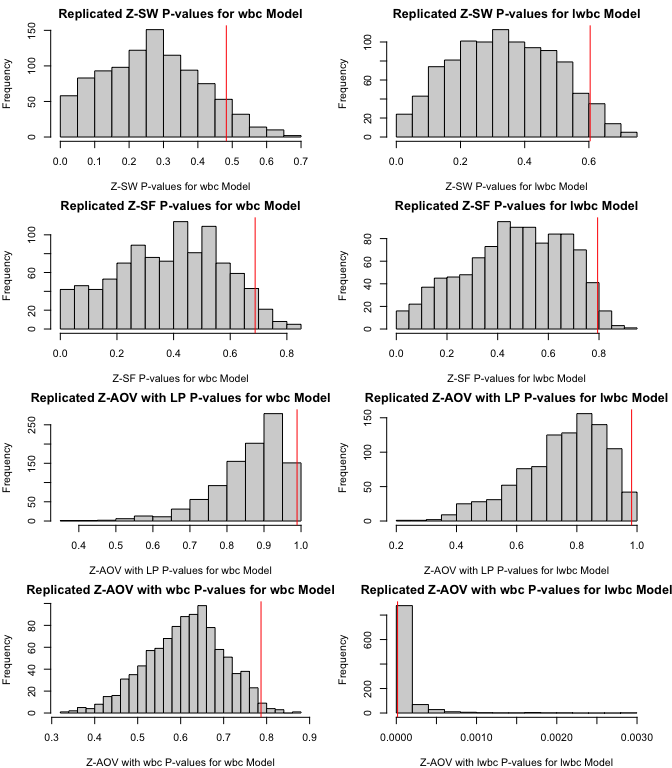
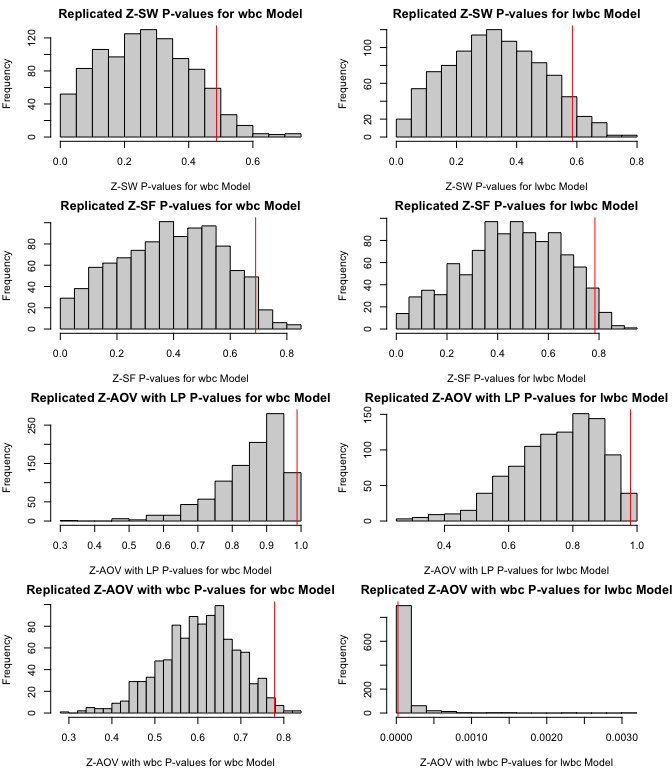
update

diff --git a/README.md b/README.md
@@ -250,13 +250,13 @@ the normality of censored Z-residuals.
 
 ``` r
 sw.test.zresid(Zresid.LeukSurv.wbc)
-#> [1] 0.1600146
+#> [1] 0.1629132
 sw.test.zresid(Zresid.LeukSurv.logwbc)
-#> [1] 0.3460284
+#> [1] 0.4495265
 sf.test.zresid(Zresid.LeukSurv.wbc)
-#> [1] 0.3058087
+#> [1] 0.1855772
 sf.test.zresid(Zresid.LeukSurv.logwbc)
-#> [1] 0.5065284
+#> [1] 0.6877729
 gof.censore.zresid(censored.Zresidual=censored.Zresid.LeukSurv.wbc,censored=LeukSurv$cens)
 #> [1] 0.5702324
 gof.censore.zresid(censored.Zresidual=censored.Zresid.LeukSurv.logwbc,censored=LeukSurv$cens)
@@ -272,31 +272,31 @@ to examine the equality of variances.
 
 ``` r
 anov.test.zresid(Zresid.LeukSurv.wbc,fitted.values=fit_LeukSurv_wbc$linear.predictors, k.anova=10)
-#> [1] 0.7989347
+#> [1] 0.900054
 anov.test.zresid(Zresid.LeukSurv.logwbc,fitted.values=fit_LeukSurv_logwbc$linear.predictors, k.anova=10)
-#> [1] 0.6646573
+#> [1] 0.9473825
 
 bartlett.test.zresid(Zresid.LeukSurv.wbc,fitted.values=fit_LeukSurv_wbc$linear.predictors, k.bl=10)
-#> [1] 0.8264447
+#> [1] 0.7676993
 bartlett.test.zresid(Zresid.LeukSurv.logwbc,fitted.values=fit_LeukSurv_logwbc$linear.predictors, k.bl=10)
-#> [1] 0.6582579
+#> [1] 0.608667
 
 anov.test.zresid(Zresid.LeukSurv.wbc,fitted.values=LeukSurv$wbc, k.anova=10)
-#> [1] 0.5619662
+#> [1] 0.5097228
 anov.test.zresid(Zresid.LeukSurv.logwbc,fitted.values=LeukSurv$logwbc, k.anova=10)
-#> [1] 0.0001208363
+#> [1] 2.653113e-05
 
 bartlett.test.zresid(Zresid.LeukSurv.wbc,fitted.values=LeukSurv$wbc, k.bl=10)
-#> [1] 0.7579971
+#> [1] 0.9861155
 bartlett.test.zresid(Zresid.LeukSurv.logwbc,fitted.values=LeukSurv$logwbc, k.bl=10)
-#> [1] 0.03232696
+#> [1] 0.531069
 ```
 
 The Z-residual test p-values quoted above contain randomness because of
 the randomization in generating Z-residuals. To ensure the robustness of
 the model diagnostics results, we generated 1000 replicated test
 p-values with 1000 sets of regenerated Z-residuals for each test method.
-We also provide the $\pmin$ values for diagnosing the two models with
+We also provide the $p_{min}$ values for diagnosing the two models with
 Z-residual-based tests.
 
 ``` r
@@ -340,30 +340,30 @@ for(j in 1:n_sims ){
                                          k.anova=10)
 }
 pmin.sw.LeukSurv.wbc<-bounds_pvalues(pv=sw.LeukSurv.wbc);pmin.sw.LeukSurv.wbc
-#> [1] 0.4827634
+#> [1] 0.4868665
 pmin.sf.LeukSurv.wbc<-bounds_pvalues(pv=sf.LeukSurv.wbc);pmin.sf.LeukSurv.wbc
-#> [1] 0.6879623
+#> [1] 0.6896968
 pmin.aov.lp.LeukSurv.wbc<-bounds_pvalues(pv=anov.LeukSurv.lp.wbc);pmin.aov.lp.LeukSurv.wbc
-#> [1] 0.9892779
+#> [1] 0.9884546
 pmin.aov.wbc.LeukSurv<-bounds_pvalues(pv=anov.LeukSurv.wbc);pmin.aov.wbc.LeukSurv
-#> [1] 0.7869433
+#> [1] 0.7785412
 
 pmin.sw.LeukSurv.lwbc<-bounds_pvalues(pv=sw.LeukSurv.lwbc);pmin.sw.LeukSurv.lwbc
-#> [1] 0.6039648
+#> [1] 0.5853159
 pmin.sf.LeukSurv.lwbc<-bounds_pvalues(pv=sf.LeukSurv.lwbc);pmin.sf.LeukSurv.lwbc
-#> [1] 0.7944623
+#> [1] 0.7838551
 pmin.aov.lp.LeukSurv.lwbc<-bounds_pvalues(pv=anov.LeukSurv.lp.lwbc);pmin.aov.lp.LeukSurv.lwbc
-#> [1] 0.9820093
+#> [1] 0.9796103
 pmin.aov.lwbc.LeukSurv<-bounds_pvalues(pv=anov.LeukSurv.lwbc);pmin.aov.lwbc.LeukSurv
-#> [1] 1.562201e-05
+#> [1] 2.203423e-05
 ```
 
 The histograms of 1000 replicated Z-residual test p-values for the wbc
 and lwbc models. The red vertical lines in these histograms show the
-upper bound summaries of these replicated p-values, $\pmin$. These
+upper bound summaries of these replicated p-values, $p_{min}$. These
 histograms show that the Z-SW, Z-SF, and Z-AOV with LP tests for both
 models give a large proportion of p-values greater than 0.05, and the
-large p-values result in large $\pmin$ values. In contrast, the
+large p-values result in large $p_{min}$ values. In contrast, the
 replicated Z-AOV with log(wbc) p-values for the lwbc model are almost
 all smaller than 0.001. The consistently small Z-AOV with log(wbc)
 p-values further confirm that the log transformation of wbc is
